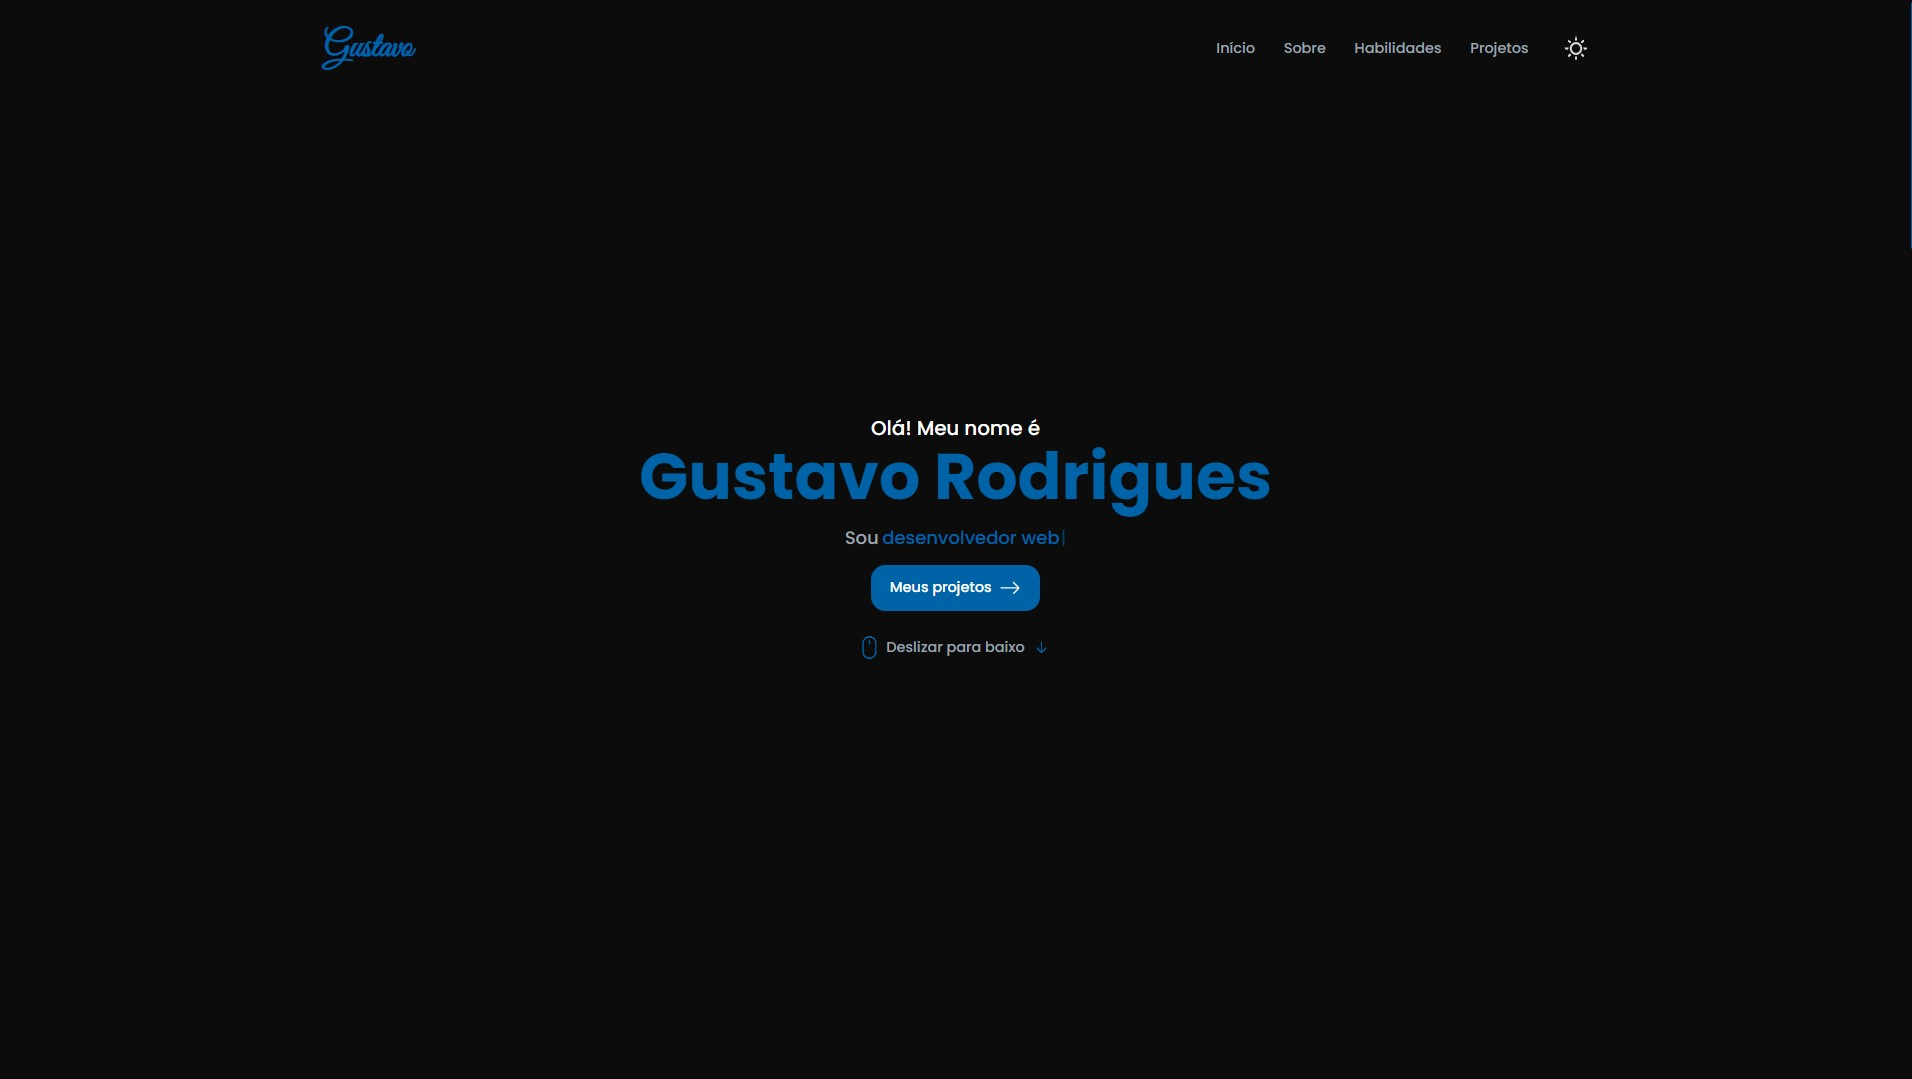
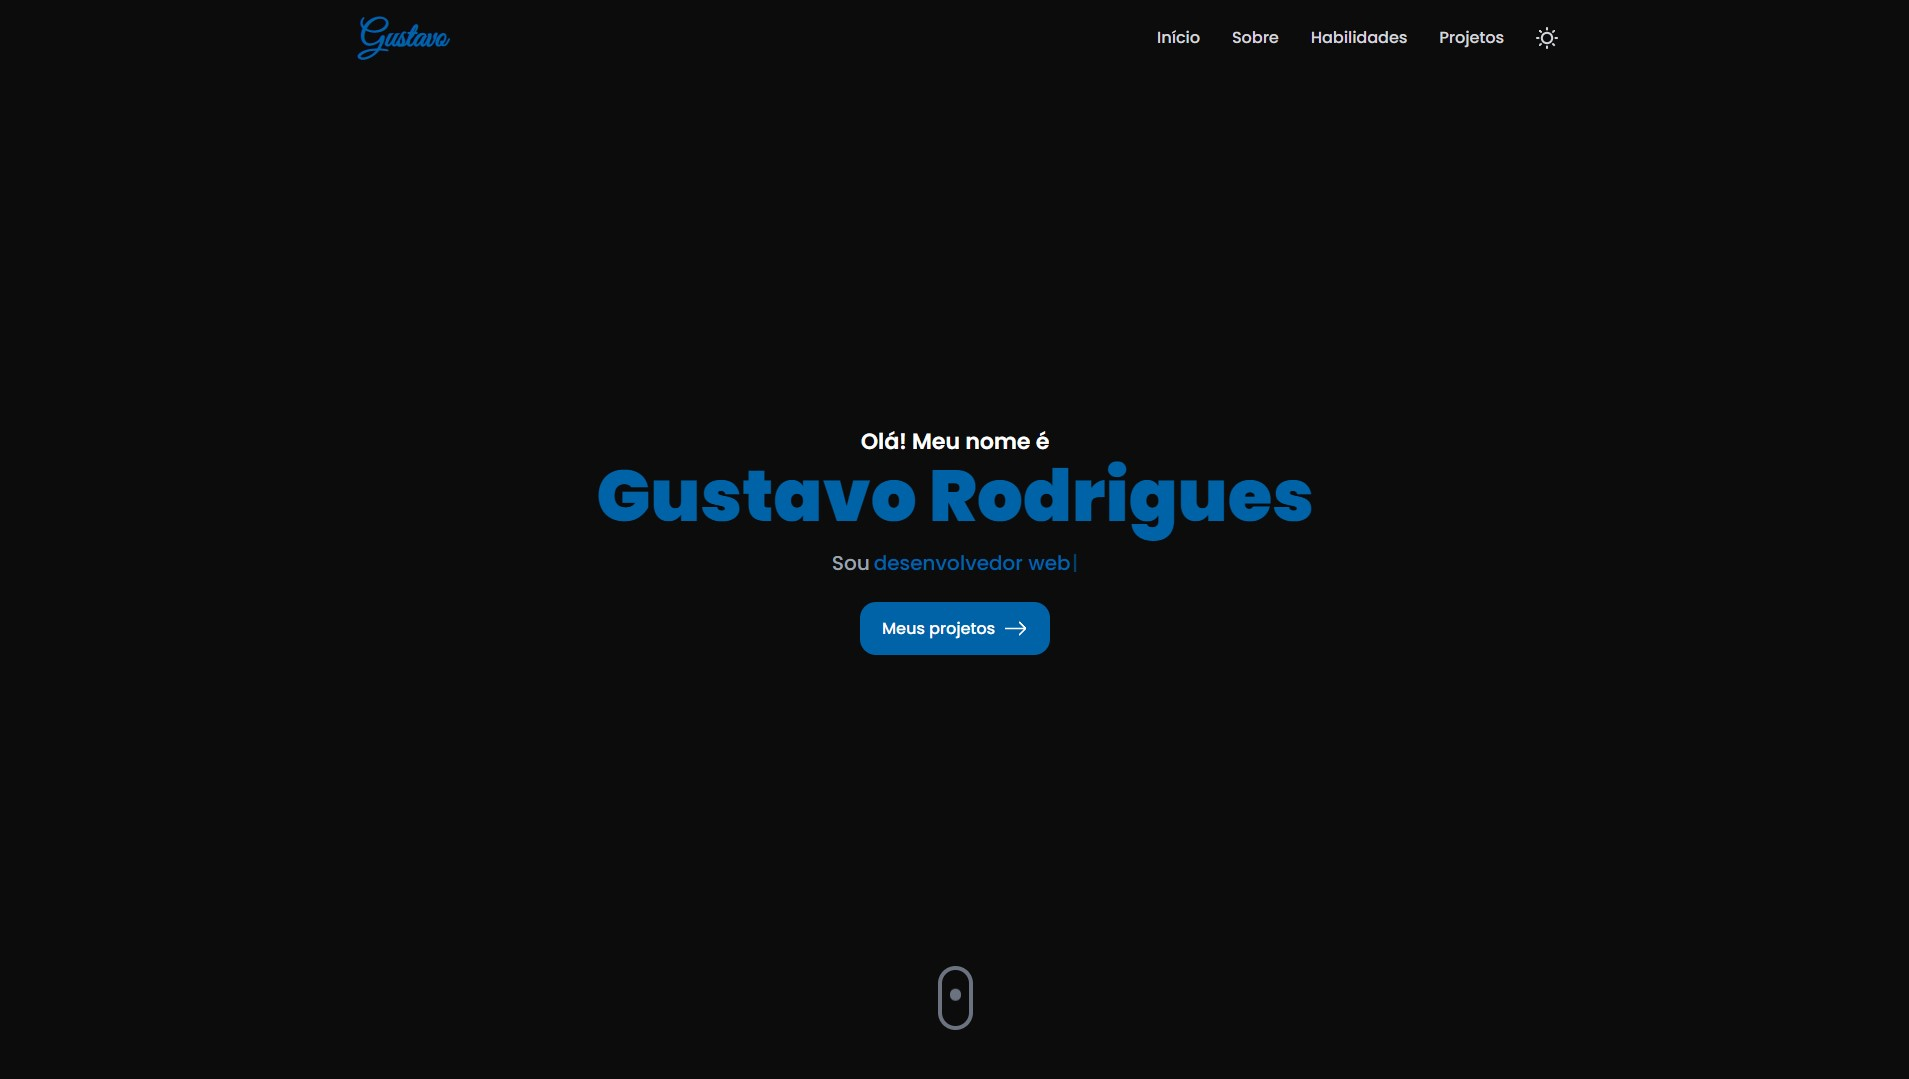
Pequenas alterações

diff --git a/src/pages/Projects.jsx b/src/pages/Projects.jsx
@@ -58,7 +58,7 @@ const Projects = () => {
 
   return (
     <section className="w-full min-h-screen sm:pt-36 lg:p-12" id="projects">
-      <div className="max-w-screen-lg min-h-screen p-4 mx-auto flex flex-col justify-center w-full">
+      <div className="max-w-[1000px] min-h-screen p-4 mx-auto flex flex-col justify-center w-full">
         <div className="pb-8 text-center">
           <h1 className="text-4xl inline">Projetos</h1>
           <p className="py-3 text-gray-400">
@@ -71,15 +71,15 @@ const Projects = () => {
               key={id}
               className="shadow-md shadow-gray-300 dark:shadow-gray-600 rounded-lg bg-backgroundSecondary h-full"
             >
-              <div className="overflow-hidden">
+              <div className="overflow-hidden rounded-t-lg">
                 <img
                   src={src}
-                  className="rounded-md hover:scale-105 ease-in-out duration-200"
+                  className="hover:scale-105 ease-in-out duration-200"
                   alt={title}
                 />
               </div>
               <div className="flex flex-col justify-center mx-5 mt-3">
-                <h3 className="font-semibold text-[20px] text-primary">
+                <h3 className="font-bold text-[20px] text-primary">
                   {title}
                 </h3>
                 <span className="max-w-full text-[13.5px] text-gray-700 dark:text-color font-medium mt-1">
@@ -92,7 +92,7 @@ const Projects = () => {
                   className="font-medium text-primary"
                   target="_blank"
                 >
-                  <button className="max-w-full flex flex-row items-center justify-center gap-2 text-[14px] bg-primary border-2 border-transparent rounded-lg text-white py-2 px-3 duration-300 hover:bg-[#0184fc]">
+                  <button className="max-w-full flex flex-row items-center justify-center gap-2 text-[14px] bg-primary border-2 border-transparent rounded-lg text-[#D2EAFF] py-2 px-3 duration-300 hover:bg-[#0184fc]">
                     Visitar
                   </button>
                 </a>
@@ -101,7 +101,7 @@ const Projects = () => {
                   className="font-medium text-primary"
                   target="_blank"
                 >
-                  <button className="max-w-full flex flex-row items-center justify-center gap-2 text-[14px] border-2 border-primary rounded-lg hover:bg-primary hover:text-white py-2 px-3 duration-300">
+                  <button className="max-w-full flex flex-row items-center justify-center gap-2 text-[14px] border-2 border-primary rounded-lg hover:bg-primary hover:text-[#D2EAFF] py-2 px-3 duration-300">
                     Repositório
                   </button>
                 </a>

diff --git a/src/pages/Home.jsx b/src/pages/Home.jsx
@@ -16,9 +16,7 @@ const Home = () => {
       <div className="md:col-span-12 flex flex-col items-center justify-center p-8">
         <div className="flex flex-col gap-4 text-center">
           <h1 className="text-black dark:text-white">
-            <span className="font-medium lg:text-[22px]">
-              Olá! Meu nome é
-            </span>
+            <span className="font-semibold lg:text-[22px]">Olá! Meu nome é</span>
             <br />
             <span className="text-primary sm:text-5xl md:text-5xl lg:text-7xl">
               Gustavo Rodrigues
@@ -40,23 +38,21 @@ const Home = () => {
               />
             </span>
           </p>
-          <div className="flex items-center gap-4 justify-center">
+          <div className="flex items-center gap-4 mt-2 justify-center">
             <a href="#projects">
-              <button className="flex text-center items-center lg:text-[16px] gap-2 font-medium py-3 px-5 rounded-[1rem] duration-300 border-2 border-transparent text-white bg-primary hover:border-primary hover:bg-transparent hover:text-primary">
+              <button className="flex text-center items-center lg:text-[16px] gap-2 font-medium py-3 px-5 rounded-[1rem] duration-300 border-2 border-transparent text-[#D2EAFF] bg-primary hover:border-primary hover:bg-transparent hover:text-primary">
                 Meus projetos
                 <BsArrowRight size={25} />
               </button>
             </a>
           </div>
-          <div className="sm:hidden md:flex items-center gap-4 justify-center">
-            <a href="#about">
-              <button className="flex text-center items-center lg:text-[16px] gap-1.5 font-medium py-3 px-5 text-gray-500 dark:text-gray-400 bg-none ease-in duration-300 hover:translate-y-1">
-                <BsMouse className="fill-primary" size={25} />
-                Deslizar para baixo
-                <BsArrowDownShort className="fill-primary" size={25} />
-              </button>
-            </a>
-          </div>
+        </div>
+        <div className="sm:hidden lg:flex absolute bottom-12 w-full justify-center items-center">
+          <a href="#about">
+            <div className="w-[35px] h-[64px] border-gray-400 dark:border-gray-500 rounded-3xl border-4 border-secondary flex justify-center items-start p-2">
+                <div className="w-3 h-3 bg-gray-400 dark:bg-gray-500 rounded-full mb-1 animation-scroll" />
+            </div>      
+          </a>
         </div>
       </div>
     </section>

diff --git a/src/components/Header.jsx b/src/components/Header.jsx
@@ -8,31 +8,15 @@ import { useTheme } from "../hooks/useTheme";
 
 // Header
 const Header = () => {
-  const [shrink, setShrink] = useState(false);
   const { theme, setTheme } = useTheme();
-
-  useEffect(() => {
-    const handleShrink = () => {
-      if (window.scrollY >= 90) {
-        setShrink(true);
-      } else {
-        setShrink(false);
-      }
-    };
-    window.addEventListener("scroll", handleShrink);
-  }, []);
 
   return (
     <header className="sm:hidden lg:flex w-full fixed z-50 bg-backgroundPrimaryLight dark:bg-backgroundPrimaryDark">
-      <nav
-        className={`${
-          shrink ? "h-[7vh]" : "h-[9vh]"
-        } fixed w-full justify-between lg:mx-auto xl:mx-[8rem] 2xl:mx-[22rem] top-0 xl:static flex flex-row items-center gap-10 z-50`}
-      >
+      <nav className="fixed w-full h-[7vh] justify-between lg:mx-auto xl:mx-[8rem] 2xl:mx-[22rem] top-0 xl:static flex flex-row items-center gap-10 z-50">
         <div className="text-center">
           <a
             href="#home"
-            className="sm:text-[2rem] lg:text-4xl 2xl:text-[2.5rem] font-signature font-semibold relative p-2 text-primary"
+            className="lg:text-4xl 2xl:text-[2.4rem] font-signature font-semibold relative p-2 text-primary"
           >
             Gustavo
           </a>

diff --git a/src/pages/About.jsx b/src/pages/About.jsx
@@ -68,7 +68,7 @@ const About = () => {
             </div>
             <div className="mt-6 flex text-center sm:justify-center">
               <a href={curriculo} download="Gustavo Rodrigues.pdf">
-                <button className="flex text-center items-center font-medium border-2 gap-1 border-primary bg-transparent py-3 px-3.5 text-primary rounded-lg hover:bg-primary hover:text-white duration-300">
+                <button className="flex text-center items-center font-medium border-2 gap-1 border-primary bg-transparent py-3 px-3.5 text-primary rounded-lg hover:bg-primary hover:text-[#D2EAFF] duration-300">
                   Download C.V
                   <RiDownload2Fill />
                 </button>

diff --git a/src/global.css b/src/global.css
@@ -8,7 +8,7 @@
   }
 
   h1 {
-    @apply sm:text-[18px] md:text-2xl lg:text-3xl xl:text-3xl 2xl:text-3xl text-primary font-bold;
+    @apply sm:text-[18px] md:text-2xl lg:text-3xl xl:text-3xl 2xl:text-3xl text-primary font-black;
   }
 
   p {
@@ -49,4 +49,20 @@
 
 html {
   scroll-behavior: smooth;
+}
+
+.animation-scroll {
+  animation: scroll 0.7s linear infinite;
+  animation-direction: alternate;
+}
+
+@keyframes scroll {
+  0% {
+    opacity: 1;
+    transform: translateY(25px);
+  }
+  100% {
+    opacity: 1;
+    transform: translateY(0);
+  }
 }

diff --git a/src/components/Footer.jsx b/src/components/Footer.jsx
@@ -40,7 +40,7 @@ const Footer = () => {
   ];
 
   return (
-    <footer className="bg-primary p-12 xl:p-20 sm:mt-36 md:mt-96 lg:mt-72 xl:mt-62">
+    <footer className="bg-primary p-12 xl:p-20 sm:mt-36 md:mt-96 lg:mt-52 xl:mt-36 2xl:mt-56">
       <div className="flex items-center justify-center mb-3">
         {socials.map(({ id, href, name, icon }) => (
           <nav key={id} className="flex items-center bg-backgroundSecondary">

diff --git a/src/pages/Skills.jsx b/src/pages/Skills.jsx
@@ -64,7 +64,7 @@ const Skills = () => {
   ];
 
   return (
-    <section className="w-full md:min-h-screen p-2" id="skills">
+    <section className="w-full md:h-screen p-2" id="skills">
       <div className="max-w-[1000px] mx-auto flex justify-center flex-col h-full">
         <div className="pb-8 sm:mt-20 lg:mt-0 text-center">
           <h1 className="text-4xl inline">Habilidades</h1>
